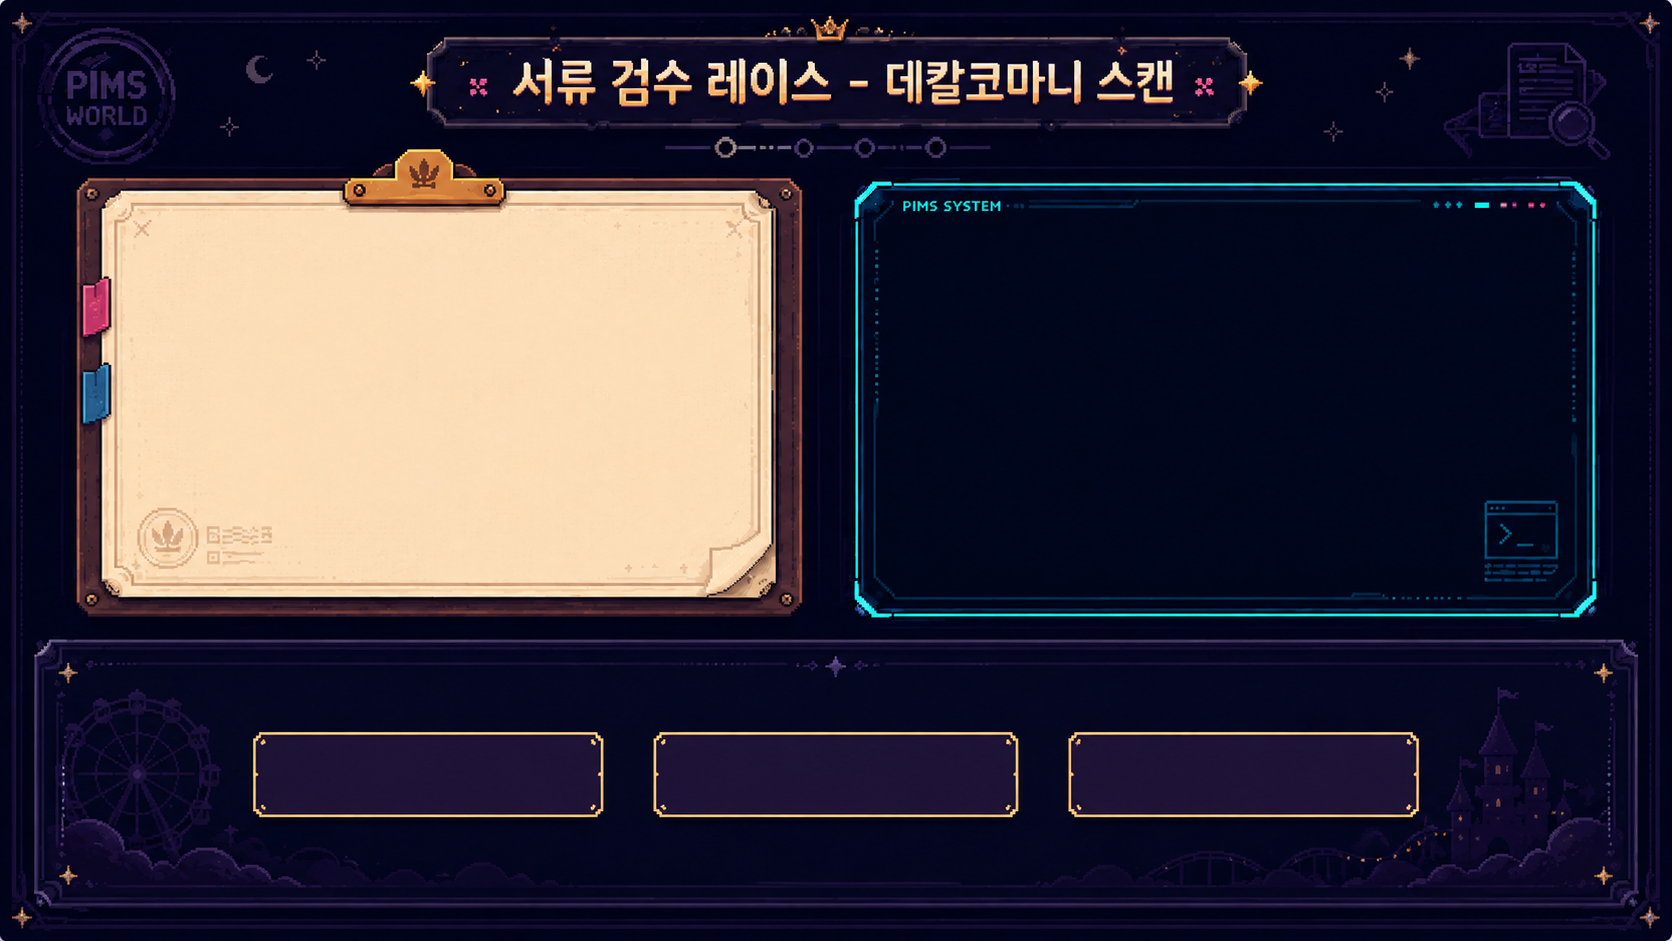
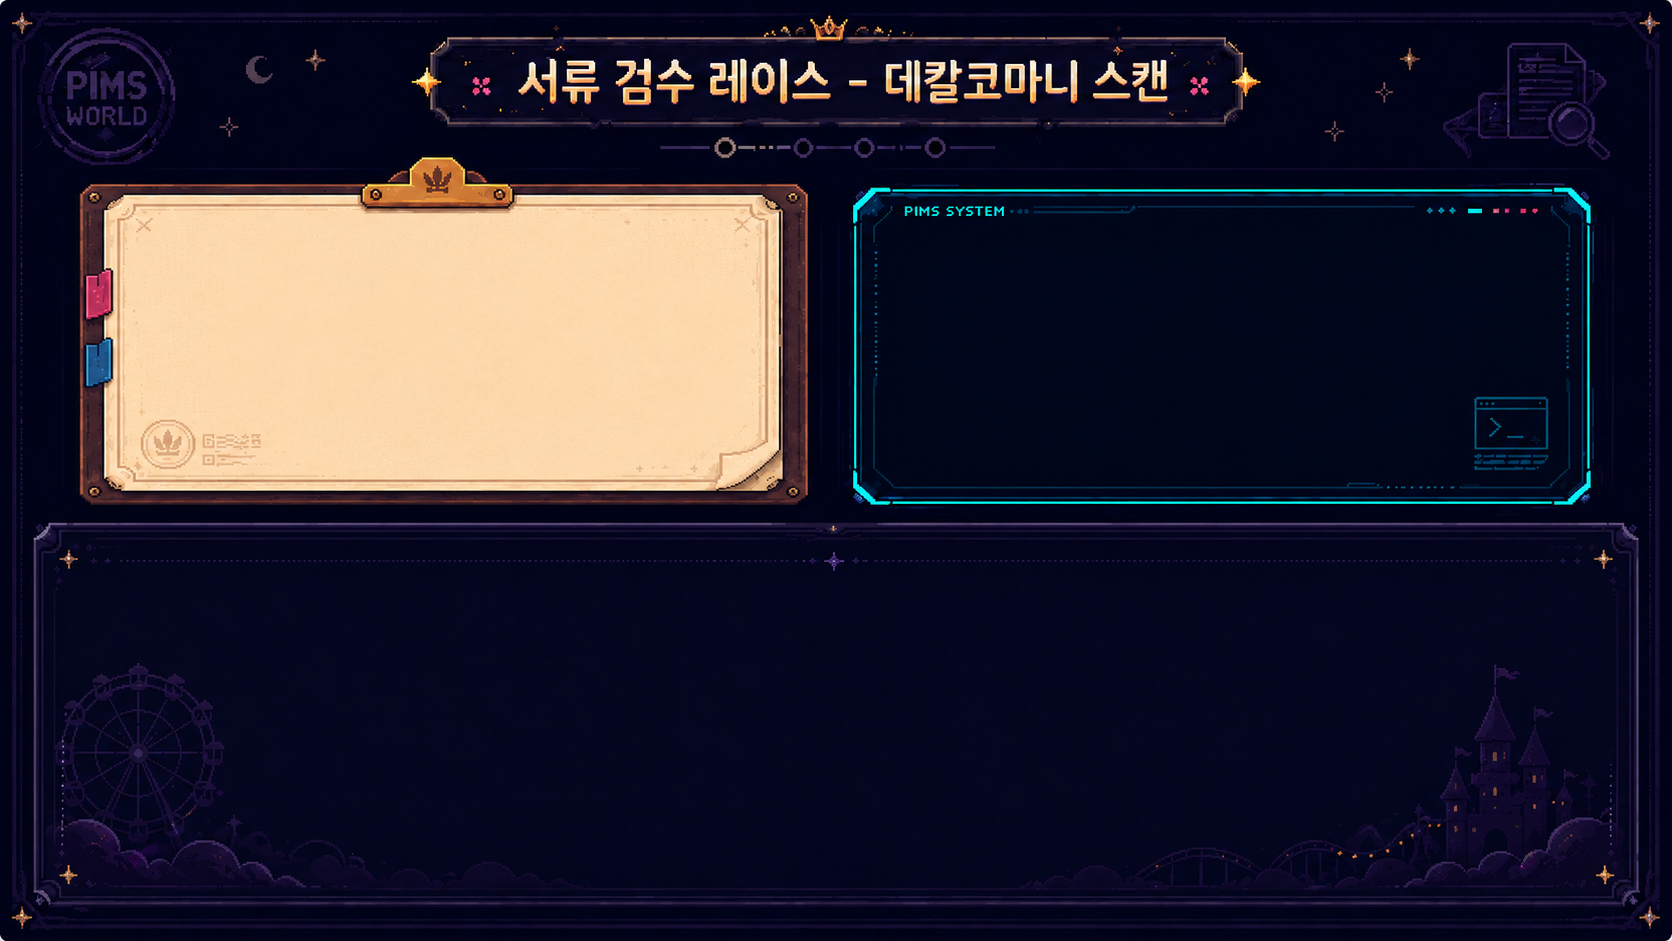
문서 검수 미니게임 종료 화면 정리

diff --git a/src/scenes/DocumentCheckMiniGameScene.js b/src/scenes/DocumentCheckMiniGameScene.js
@@ -1,4 +1,4 @@
-import * as Phaser from 'phaser';
+import * as Phaser from 'phaser';
 import { GameState } from '../systems/GameState.js';
 import { ASSETS, hasTexture } from '../systems/AssetManager.js';
 
@@ -11,9 +11,9 @@ const LAYOUT = {
     instruction: { x: 640, y: 420 },
     bottomPanel: { x: 75, y: 455, width: 1130, height: 190 },
     choiceButtons: [
-        { x: 150, y: 548, width: 250, height: 44 },
-        { x: 515, y: 548, width: 250, height: 44 },
-        { x: 880, y: 548, width: 250, height: 44 }
+        { x: 210, y: 528, width: 250, height: 44 },
+        { x: 515, y: 528, width: 250, height: 44 },
+        { x: 830, y: 528, width: 250, height: 44 }
     ],
     inputBox: { x: 120, y: 510, width: 420, height: 70 },
     keypad: { x: 690, y: 500, buttonWidth: 64, buttonHeight: 36, gapX: 14, gapY: 8 }
@@ -99,6 +99,7 @@ export class DocumentCheckMiniGameScene extends Phaser.Scene {
         this.problemIndex = 0;
         this.currentInput = '';
         this.waitingForReturn = false;
+        this.completed = false;
         this.dynamicObjects = [];
     }
 
@@ -106,11 +107,13 @@ export class DocumentCheckMiniGameScene extends Phaser.Scene {
         this.problemIndex = 0;
         this.currentInput = '';
         this.waitingForReturn = false;
+        this.completed = false;
         this.dynamicObjects = [];
 
         this.cameras.main.setBackgroundColor(0x090714);
         this.createBackdrop();
         this.createStaticHeader();
+        this.input.keyboard.on('keydown', this.handleKeyboardInput, this);
         this.renderProblem(0);
 
         this.events.once('shutdown', () => this.cleanup());
@@ -119,12 +122,13 @@ export class DocumentCheckMiniGameScene extends Phaser.Scene {
     createBackdrop() {
         const bgKey = ASSETS.backgrounds.documentCheck.key;
         if (hasTexture(this, bgKey)) {
-            const bg = this.add.image(640, 360, bgKey);
-            bg.setDisplaySize(1280, 720);
-            bg.setDepth(0);
+            this.backdrop = this.add.image(640, 360, bgKey);
+            this.backdrop.setDisplaySize(1280, 720);
+            this.backdrop.setDepth(0);
             return;
         }
 
+        this.backdrop = null;
         const g = this.add.graphics();
         g.setDepth(0);
         g.fillStyle(0x090714, 1).fillRect(0, 0, 1280, 720);
@@ -165,6 +169,7 @@ export class DocumentCheckMiniGameScene extends Phaser.Scene {
         this.progressText.setText(`${index + 1}/3`);
         this.instructionText.setText(problem.instruction);
         this.instructionText.setColor(COLORS.bottomText);
+        this.instructionText.setY(LAYOUT.instruction.y + 10);
         this.hpText.setText(`HP ${GameState.get('hp') ?? 100}`);
 
         this.renderComparisonPanels(problem);
@@ -305,7 +310,6 @@ export class DocumentCheckMiniGameScene extends Phaser.Scene {
     createButton({ x, y, width, height, label, onClick, fontSize }) {
         const bg = this.add.rectangle(x, y, width, height, COLORS.buttonBg, 1)
             .setOrigin(0, 0)
-            .setStrokeStyle(2, COLORS.buttonBorder, 0.85)
             .setDepth(100);
 
         const text = this.add.text(x + width / 2, y + height / 2, label, {
@@ -345,6 +349,42 @@ export class DocumentCheckMiniGameScene extends Phaser.Scene {
         }
 
         this.applyWrongAnswer(problem.wrongMessage);
+    }
+
+    handleKeyboardInput(event) {
+        if (this.completed) {
+            if (event.code === 'Enter' || event.code === 'NumpadEnter' || event.code === 'Space') {
+                event.preventDefault?.();
+                this.scene.start('SealedVaultScene');
+            }
+            return;
+        }
+
+        if (this.waitingForReturn) {
+            return;
+        }
+
+        const problem = PROBLEMS[this.problemIndex];
+        if (!problem || problem.type !== 'numeric') {
+            return;
+        }
+
+        if (event.code === 'Backspace') {
+            event.preventDefault?.();
+            this.deleteLastDigit();
+            return;
+        }
+
+        if (event.code === 'Enter' || event.code === 'NumpadEnter') {
+            event.preventDefault?.();
+            this.submitNumericAnswer();
+            return;
+        }
+
+        const match = event.code.match(/^Digit([0-9])$/) || event.code.match(/^Numpad([0-9])$/);
+        if (match) {
+            this.handleNumberInput(match[1]);
+        }
     }
 
     handleNumberInput(value) {
@@ -482,15 +522,73 @@ export class DocumentCheckMiniGameScene extends Phaser.Scene {
     completeMiniGame() {
         GameState.set('pimsRegistered', true);
         GameState.set('miniGameCleared', true);
+        this.completed = true;
+        this.waitingForReturn = false;
+
+        const clearBgKey = ASSETS.backgrounds.documentCheckClear.key;
+        if (this.backdrop && hasTexture(this, clearBgKey)) {
+            this.backdrop.setTexture(clearBgKey);
+            this.backdrop.setDisplaySize(1280, 720);
+        }
+
         this.clearDynamicUI();
 
-        this.instructionText.setText('필수서류 등록 완료. 사업비 교부 준비가 끝났습니다.');
+        this.progressText.setText('');
+        this.instructionText.setText('필수서류 등록 완료');
         this.instructionText.setColor(COLORS.success);
-        this.showFeedback('문서 검수 완료', COLORS.success, 0.9);
+        this.instructionText.setY(220);
+        this.instructionText.setFontSize('28px');
+        this.instructionText.setFontStyle('bold');
 
-        this.time.delayedCall(900, () => {
-            this.scene.start('SealedVaultScene');
+        this.subInstructionText = this.add.text(640, 274, '사업비 교부 준비가 끝났습니다.', {
+            fontFamily: 'Arial, sans-serif',
+            fontSize: '18px',
+            color: COLORS.success,
+            align: 'center'
+        }).setOrigin(0.5, 0.5).setDepth(200);
+        this.dynamicObjects.push(this.subInstructionText);
+
+        this.flashOverlay = this.add.rectangle(640, 360, 1280, 720, 0xffffff, 0);
+        this.flashOverlay.setDepth(190);
+        this.flashOverlay.setAlpha(0);
+        this.tweens.add({
+            targets: this.flashOverlay,
+            alpha: { from: 0, to: 0.22 },
+            duration: 160,
+            yoyo: true,
+            ease: 'Sine.easeOut',
+            onComplete: () => {
+                this.flashOverlay.destroy();
+                this.flashOverlay = null;
+            }
         });
+
+        const sparklePositions = [
+            [360, 250],
+            [470, 205],
+            [805, 220],
+            [930, 270]
+        ];
+        sparklePositions.forEach(([x, y]) => {
+            const sparkle = this.add.circle(x, y, 3, 0xffffff, 0.9).setDepth(191);
+            this.tweens.add({
+                targets: sparkle,
+                y: y - 30,
+                alpha: 0,
+                duration: 760,
+                delay: 60,
+                ease: 'Sine.easeOut',
+                onComplete: () => sparkle.destroy()
+            });
+        });
+
+        this.endPromptText = this.add.text(640, 672, 'Space 또는 Enter: 다음 장면', {
+            fontFamily: 'Arial, sans-serif',
+            fontSize: '18px',
+            color: COLORS.darkSubText,
+            align: 'center'
+        }).setOrigin(0.5, 0.5).setDepth(200);
+        this.dynamicObjects.push(this.endPromptText);
     }
 
     clearDynamicUI() {
@@ -520,6 +618,8 @@ export class DocumentCheckMiniGameScene extends Phaser.Scene {
     }
 
     cleanup() {
+        this.input.keyboard.off('keydown', this.handleKeyboardInput, this);
         this.clearDynamicUI();
     }
 }
+

diff --git a/src/systems/AssetManager.js b/src/systems/AssetManager.js
@@ -30,6 +30,7 @@ export const ASSETS = {
         sealedVaultMid: image('bg_sealed_vault_mid', '/assets/backgrounds/sealed_vault_mid.png'),
         sealedVaultFront: image('bg_sealed_vault_front', '/assets/backgrounds/sealed_vault_front.png'),
         documentCheck: image('bg_document_check', '/assets/backgrounds/document_check_bg.png'),
+        documentCheckClear: image('bg_document_check_clear', '/assets/backgrounds/document_check_clear_bg.png'),
         stageClear: image('bg_stage_clear', '/assets/backgrounds/stage_clear_bg.png'),
         openingLogin: image('bg_opening_login', '/assets/opening/pims_login_screen.png')
     },